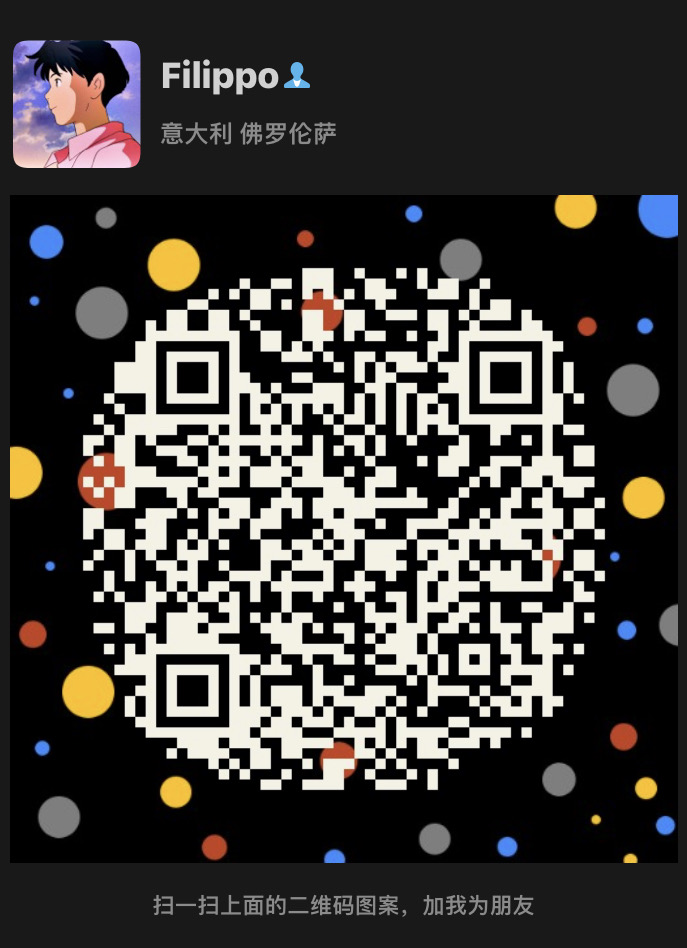
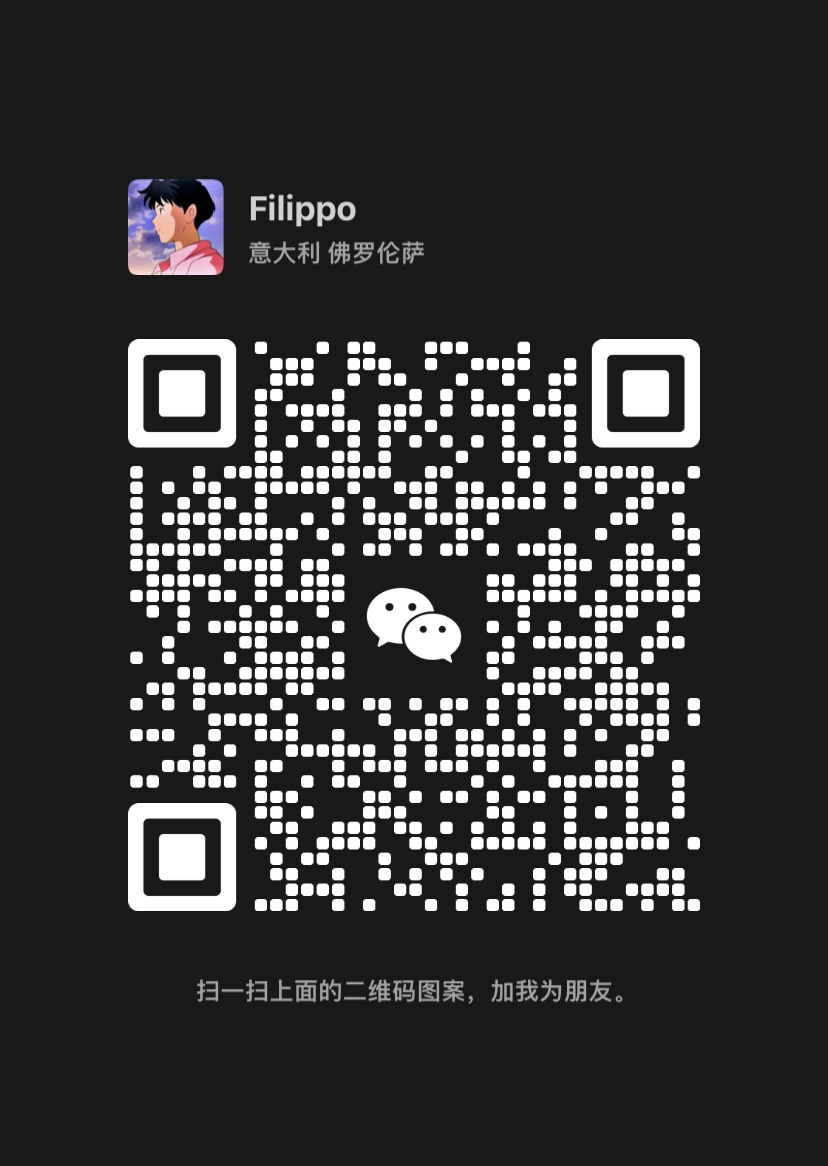
n0tfilzhang 1.0

diff --git a/index.html b/index.html
@@ -3,7 +3,7 @@
     <head>
         <meta name = "viewport" content = "width = 600">
         <title>
-            n0tfilzhang
+            Welcome
         </title>
         <link rel = "shortcut icon" href = "img/doge.png">
         <link rel = "apple-touch-icon" href = "img/doge.png" sizes = "180x180">
@@ -12,7 +12,7 @@
     </head>
     <body style = "background-color: #17669b">
         <div class = "center">
-            <p align = "center" class = "font size"> just wanted to let you know that you're doing great :) </h2>
+            <p align = "center" class = "font size"> just wanted to let you know that you're doing great :) </p>
             <div align = "center">
                 <a href = "wx.html" target = "_blank" class = "fa fa-wechat fa-4x padding1"></a>
                 <a href = "https://www.instagram.com/n0tfilzhang" target = "_blank" class = "fa fa-instagram fa-4x padding2"></a>

diff --git a/wx.html b/wx.html
@@ -7,9 +7,11 @@
         </title>
         <link rel = "shortcut icon" href = "img/doge.png">
         <link rel = "apple-touch-icon" href = "img/doge.png" sizes = "180x180">
+        <link rel = "stylesheet" href = "style.css">
     </head>
     <body bgcolor = "#191919">
-        <img src = "img/wx2.PNG" alt = "wechat">
+        <p align = "center" class = "font size"> scan me with wechat :p </p>
+        <img src = "img/wx.jpg" alt = "wechat">
     </body>
     <style>
         img
